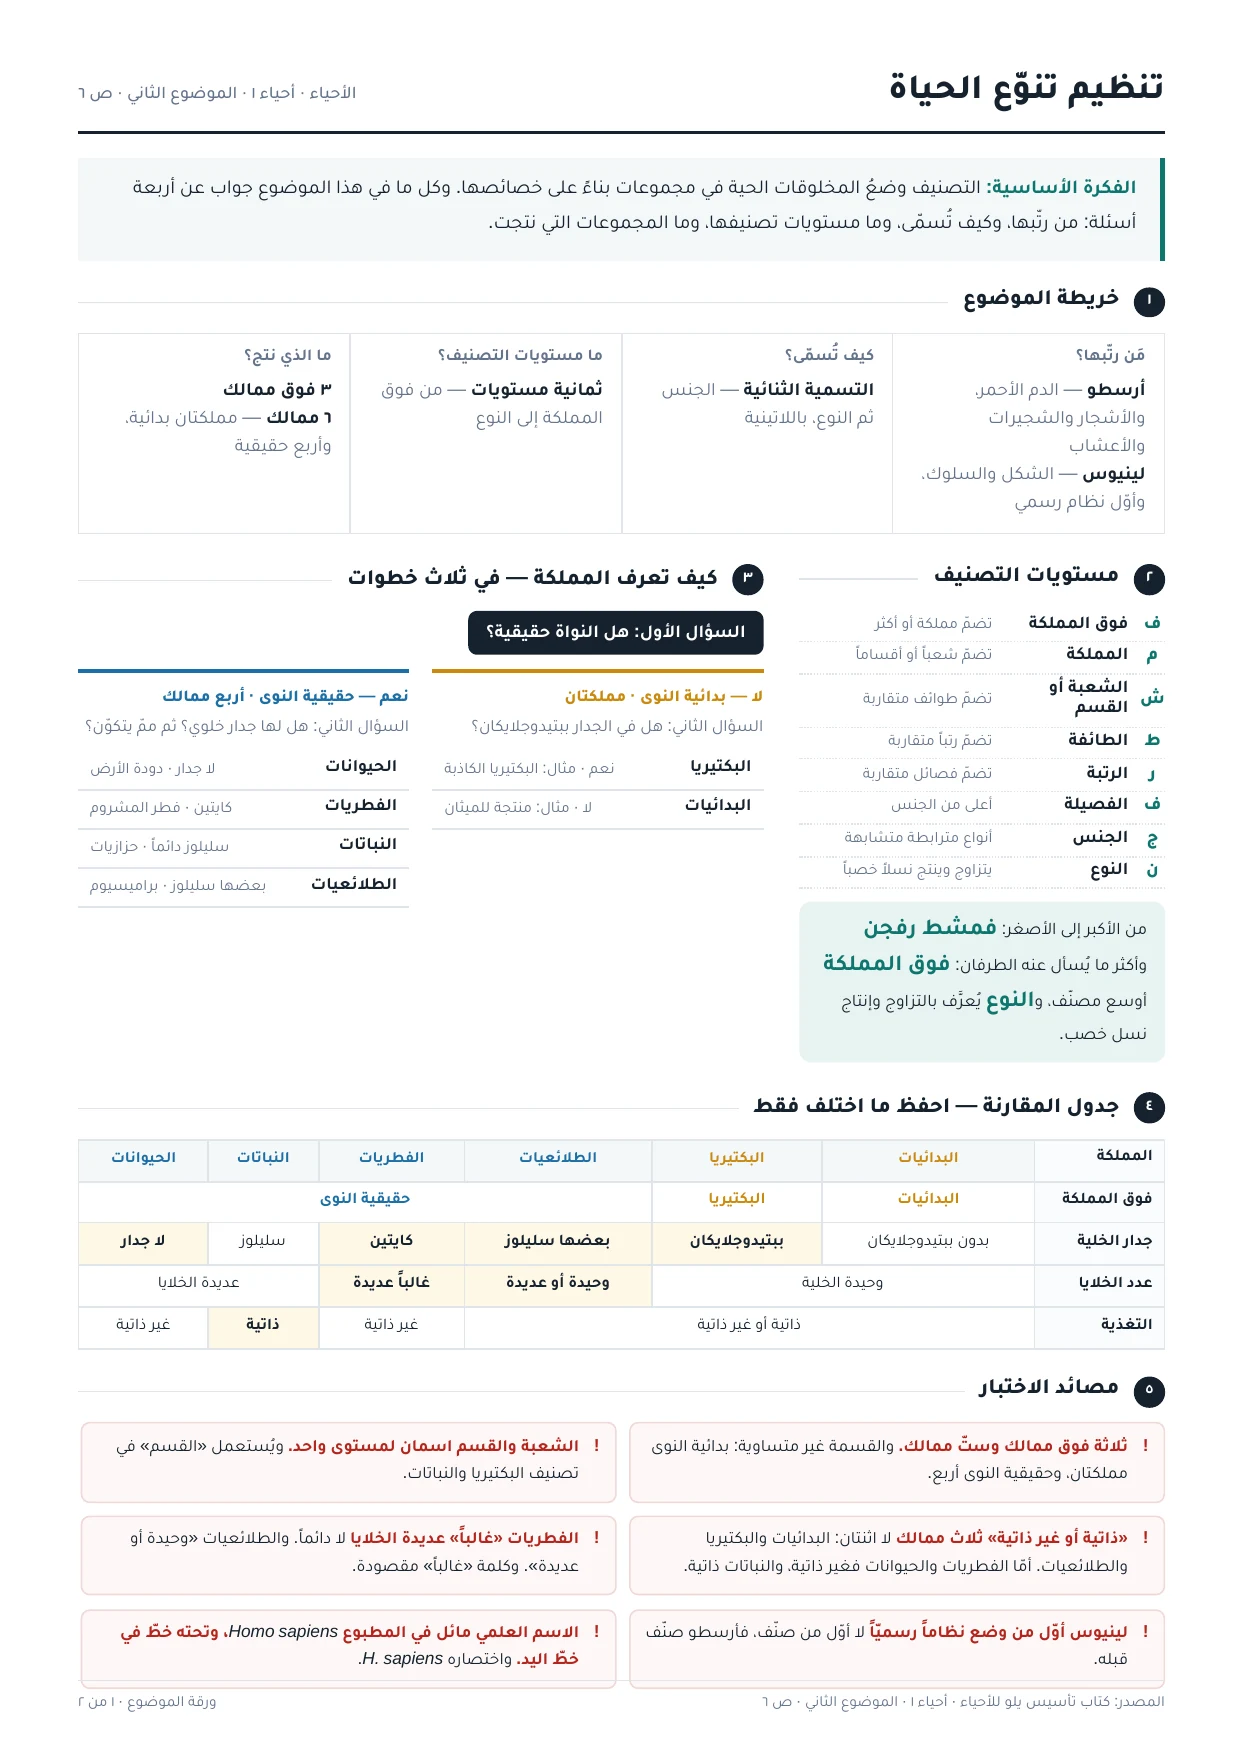
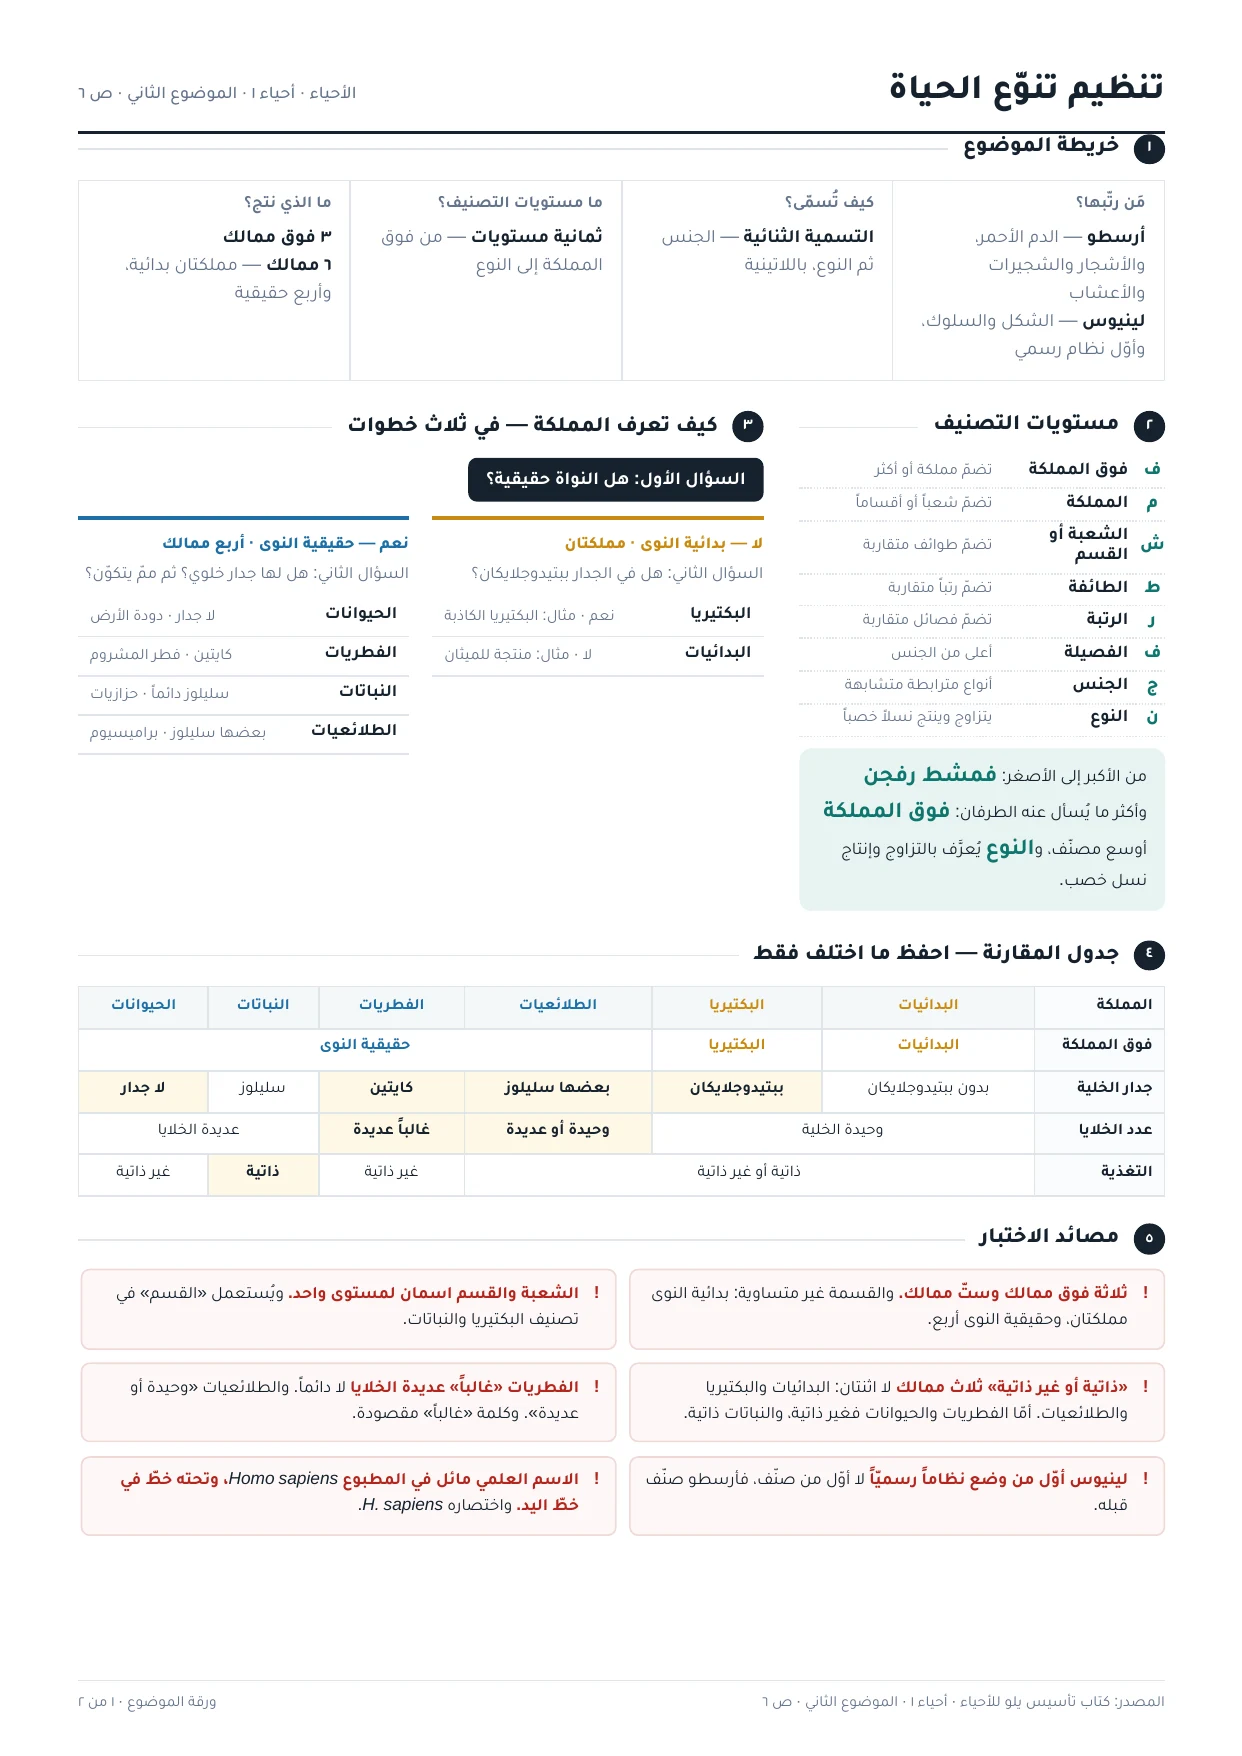
Biology: explanation layer for the classification topic, prose off its sheet
Claude-Session: https://claude.ai/code/session_0172rHRUer7syEFwxsVoo9fj

diff --git a/bio/index.html b/bio/index.html
@@ -373,6 +373,28 @@ const TOPICS = [{
  sheet:"sheets/u1-02.webp",
  viz:[
   {k:"idea", t:"التصنيف وضعُ المخلوقات الحية في مجموعات بناءً على خصائصها. وكل ما في هذا الموضوع جواب عن أربعة أسئلة: من رتّبها، وكيف تُسمّى، وما مستويات تصنيفها، وما المجموعات التي نتجت."},
+  {k:"text", h:"الشرح", secs:[
+   {t:"ما التصنيف", p:[
+    "<b>التصنيف:</b> وضع الأشياء أو المخلوقات الحية في مجموعات بناءً على مجموعة من الخصائص.",
+    "<b>علم التصنيف:</b> أحد فروع علم الأحياء، يهتم بتعريف الأنواع وتسميتها وتصنيفها بناءً على صفاتها وعلاقاتها الطبيعية.",
+    "<b>المصنّف:</b> مجموعة المخلوقات الحية التي اتخذت اسماً."]},
+   {t:"من رتّبها", p:[
+    "<b>أرسطو:</b> صنّف الحيوانات تبعاً لوجود الدم الأحمر أو عدمه، وصنّف النباتات إلى أشجار وشجيرات وأعشاب.",
+    "<b>كارلوس لينيوس:</b> أوّل من وضع نظاماً رسمياً عالمياً للتصنيف، واعتمد في تصنيفه على شكل المخلوق الحي وسلوكه. ووضع نظام التسمية الثنائية.",
+    "والفرق بينهما هو موضع السؤال: أرسطو صنّف أوّلاً، ولينيوس أوّل من وضع <b>نظاماً رسمياً</b>."]},
+   {t:"كيف يُكتب الاسم العلمي", p:[
+    "يتكوّن من كلمتين باللاتينية: الأولى اسم <b>الجنس</b> وتبدأ بحرف كبير، والثانية اسم <b>النوع</b> وأحرفه كلّها صغيرة.",
+    "ويُكتب <b>بخط مائل</b> في المجلّات والكتب المطبوعة، <b>ويوضع تحته خط</b> إذا كُتب بخط اليد.",
+    "ويمكن اختصاره في المرّات التالية بكتابة الحرف الأوّل من اسم الجنس بحرف كبير واسم النوع بأحرف صغيرة."]},
+   {t:"كيف يُقرأ سلّم المستويات", p:[
+    "ثمانية مستويات، من الأوسع إلى الأضيق. وكلّما نزلت درجةً قلّ عدد ما تضمّه وزاد تشابهه.",
+    "وطرفا السلّم هما المسؤولان عن أكثر الأسئلة: <b>فوق المملكة</b> أوسع المصنّفات وتضمّ مملكة أو أكثر، و<b>النوع</b> أضيقها ويُعرَّف بقيد زائد على التشابه، وهو التزاوج وإنتاج نسل خصب.",
+    "و<b>الشعبة</b> و<b>القسم</b> اسمان لمستوى واحد، ويُستعمل «القسم» في تصنيف البكتيريا والنباتات."]},
+   {t:"لماذا ستّ ممالك وثلاث فوق ممالك", p:[
+    "<b>فوق الممالك</b> صُنفت حسب نوع الخلية والتركيب، وعددها ثلاث: البدائيات، والبكتيريا، وحقيقية النوى.",
+    "<b>والممالك</b> صُنفت حسب نوع الخلية والتركيب والتغذي، وعددها ستّ.",
+    "والقسمة غير متساوية: بدائية النوى مملكتان، كلٌّ منهما تحت فوق مملكة مستقلّة. وحقيقية النوى أربع ممالك تحت فوق مملكة واحدة."]}
+  ]},
   {k:"ladder", h:"مستويات التصنيف", key:"فمشط رفجن", lo:"الأصغر", hi:"الأكبر", items:[
     {n:"فوق المملكة", d:"أوسع المصنّفات، تضمّ مملكة أو أكثر. وعددها ٣"},
     {n:"المملكة", d:"تضمّ شعباً أو أقساماً. وعددها ٦"},
